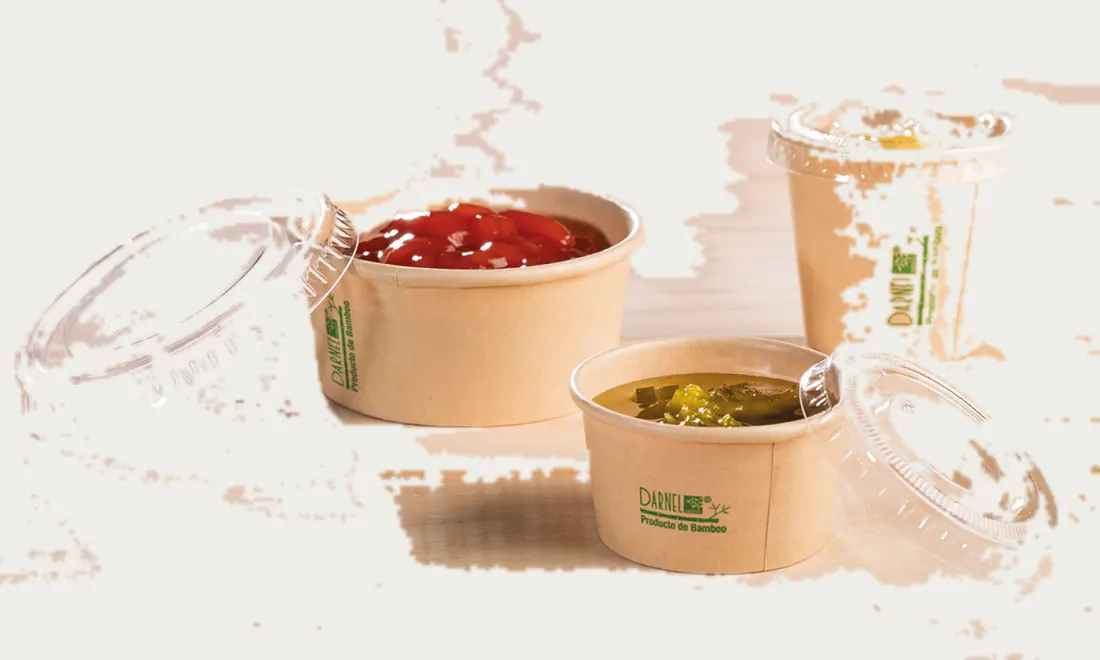
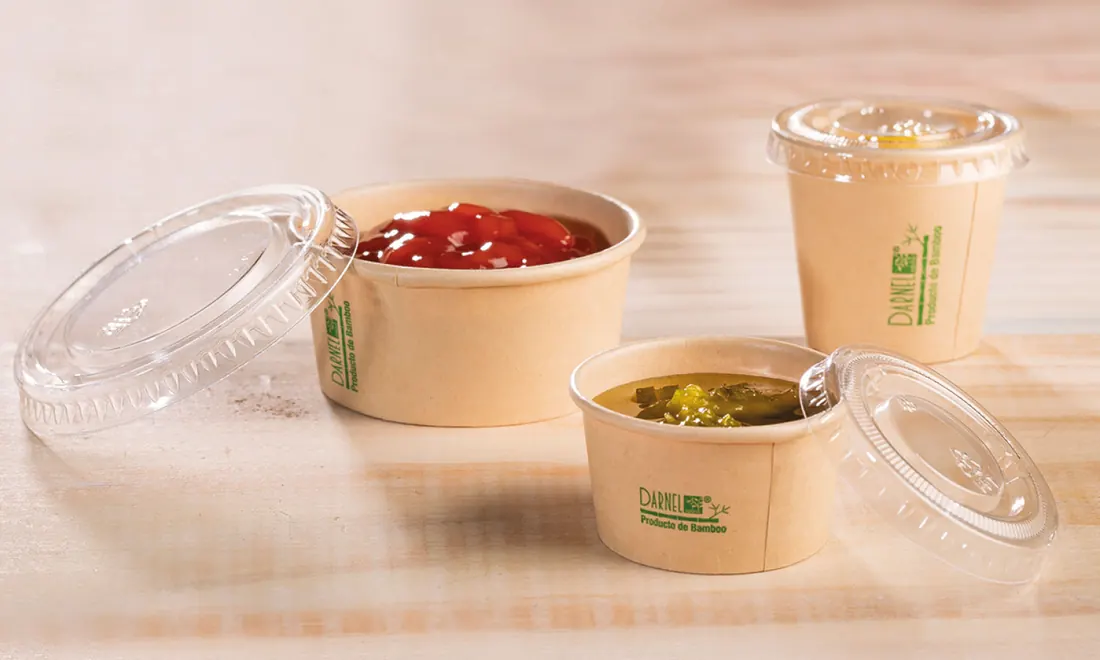
Preserve contextual product photos

diff --git a/scripts/build_catalog.py b/scripts/build_catalog.py
@@ -212,6 +212,20 @@ def remove_duplicate_images(sources):
     return unique_sources
 
 
+def should_preserve_context(source):
+    name = normalize_text(Path(source).name)
+    context_markers = [
+        "producto-maestro",
+        "ambient",
+        "ambiente",
+        "context",
+        "lifestyle",
+        "uso",
+        "escena",
+    ]
+    return any(marker in name for marker in context_markers)
+
+
 def main():
     if not PHOTO_ROOT.exists():
         raise FileNotFoundError(f"No existe la carpeta de fotos: {PHOTO_ROOT}")
@@ -234,7 +248,13 @@ def main():
         images = []
         for image_index, source in enumerate(product["sourceImages"], start=1):
             destination = product_dir / f"{image_index:02d}.webp"
-            if optimize_image(source, destination):
+            if should_preserve_context(source):
+                with Image.open(source) as image:
+                    image = ImageOps.exif_transpose(image).convert("RGB")
+                    image.thumbnail((1100, 1100), Image.Resampling.LANCZOS)
+                    image.save(destination, "WEBP", quality=78, method=6)
+                skipped_backgrounds += 1
+            elif optimize_image(source, destination):
                 changed_backgrounds += 1
             else:
                 skipped_backgrounds += 1
